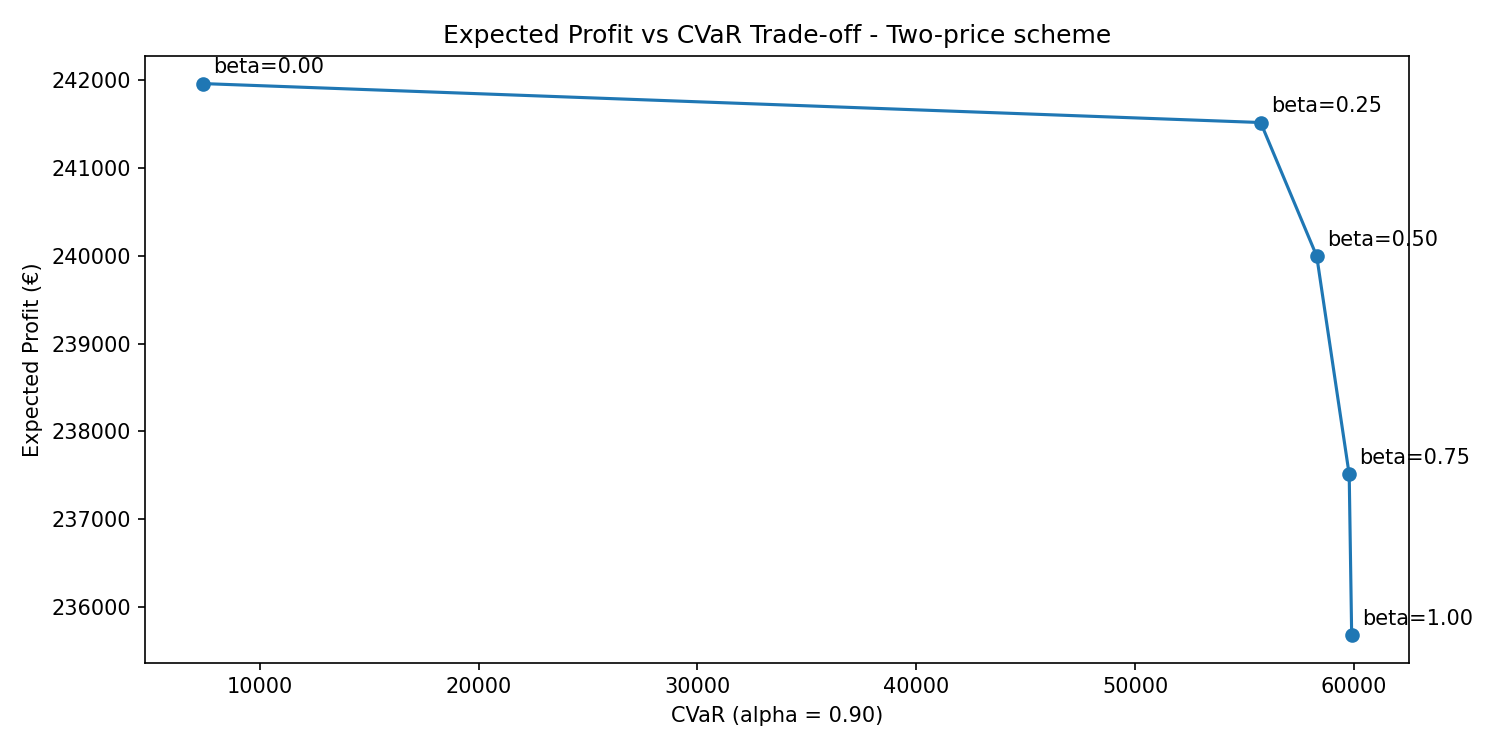
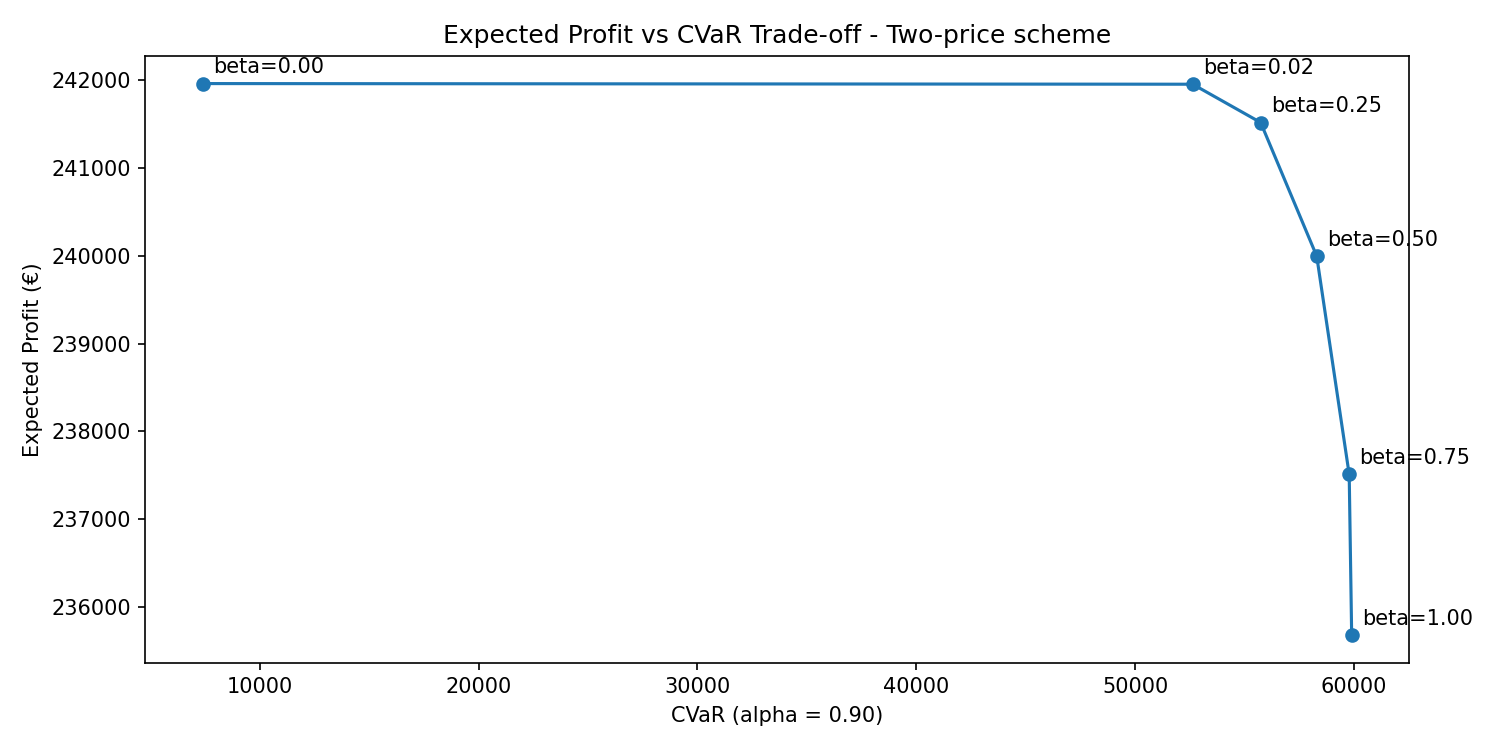
Added extra beta value for stask 4

Changed region(s): [[0.1533, 0.0613, 0.8893, 0.184]]

diff --git a/step1/plots.py b/step1/plots.py
@@ -149,12 +149,15 @@ def plot_cvar_frontier_With_Both_Models(frontier_single_price_df, frontier_two_p
             (row["cvar"], row["expected_profit"]),
             textcoords="offset points", xytext=(5, 5)
         )
+    offset = 25
+
     for _, row in frontier_two_price_df.iterrows():
         plt.annotate(
             f"beta={row['beta']:.2f}",
             (row["cvar"], row["expected_profit"]),
-            textcoords="offset points", xytext=(5, 5)
+            textcoords="offset points", xytext=(5, offset)
         )
+        offset -= 5  # adjust offset for the next annotation to avoid overlap
     plt.xlabel("CVaR (alpha = 0.90)")
     plt.ylabel("Expected Profit (€)")
     plt.title(title)

diff --git a/Step1_Task1AndTask2.py b/Step1_Task1AndTask2.py
@@ -67,7 +67,7 @@ plot_profit_histogram(
     color="#fa9537"
 )
 
-# plot Expected day ahead value, expected balancing value and the difference for each hour to determine the decision of how much to offer in the day-ahead market
+# plot Expected day ahead value, expected balancing value for each hour to determine the decision of how much to offer in the day-ahead market
 plot_Expected_DA_And_Balancing_Values(
     expected_balancing_value, expected_DA_value, HOURS,
     save_path=PLOTS / "Task1.1_expected_da_and_balancing_values.png",

diff --git a/Step1_Task4.py b/Step1_Task4.py
@@ -10,7 +10,7 @@ from step1.models import (
 from step1.plots import plot_cvar_frontier_With_Both_Models, plot_profit_histogram, plot_cvar_frontier
 
 ALPHA       = 0.9
-BETA_VALUES = [0.0, 0.25, 0.5, 0.75, 1.0]
+BETA_VALUES = [0.0, 0.02, 0.25, 0.5, 0.75, 1.0]
 
 # ---------------------------------------------------------------------------
 # Balancing prices
